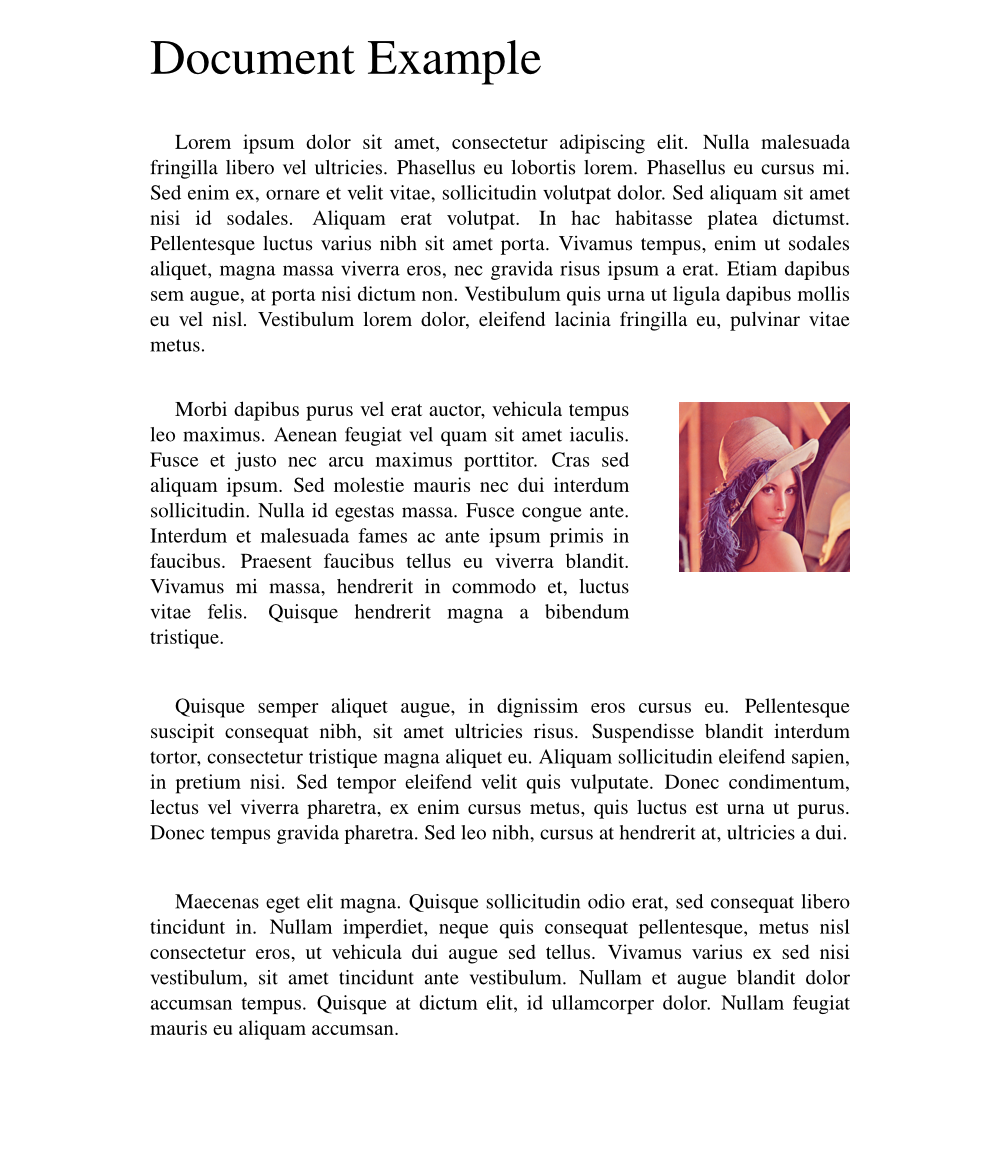
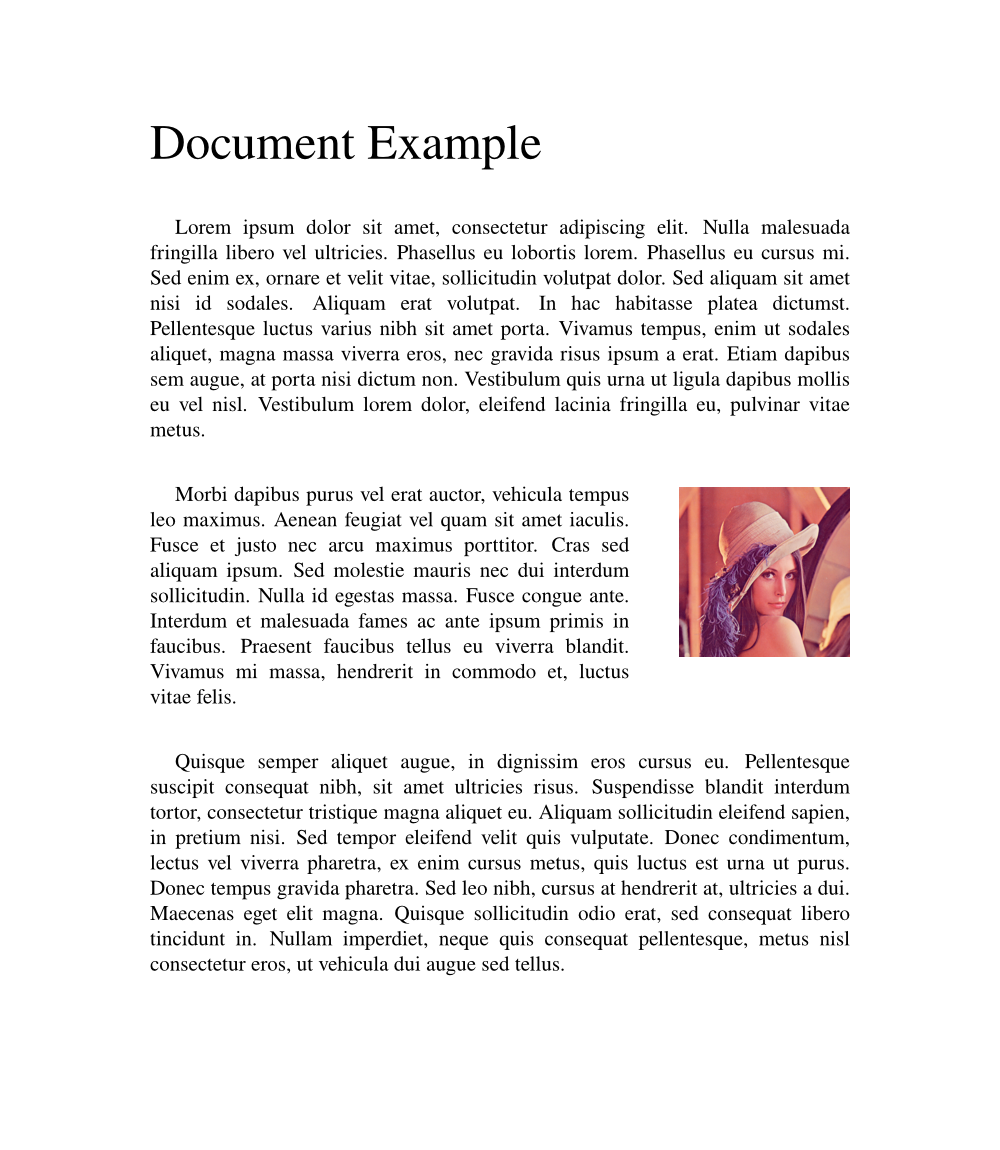
Update readme and document example

Changed region(s): [[0.155, 0.0913, 0.868, 0.913], [0.155, 0.0304, 0.527, 0.0913]]

diff --git a/examples/document/main.go b/examples/document/main.go
@@ -34,12 +34,12 @@ func main() {
 
 var lorem = []string{
 	`Lorem ipsum dolor sit amet, consectetur adipiscing elit. Nulla malesuada fringilla libero vel ultricies. Phasellus eu lobortis lorem. Phasellus eu cursus mi. Sed enim ex, ornare et velit vitae, sollicitudin volutpat dolor. Sed aliquam sit amet nisi id sodales. Aliquam erat volutpat. In hac habitasse platea dictumst. Pellentesque luctus varius nibh sit amet porta. Vivamus tempus, enim ut sodales aliquet, magna massa viverra eros, nec gravida risus ipsum a erat. Etiam dapibus sem augue, at porta nisi dictum non. Vestibulum quis urna ut ligula dapibus mollis eu vel nisl. Vestibulum lorem dolor, eleifend lacinia fringilla eu, pulvinar vitae metus.`,
-	`Morbi dapibus purus vel erat auctor, vehicula tempus leo maximus. Aenean feugiat vel quam sit amet iaculis. Fusce et justo nec arcu maximus porttitor. Cras sed aliquam ipsum. Sed molestie mauris nec dui interdum sollicitudin. Nulla id egestas massa. Fusce congue ante. Interdum et malesuada fames ac ante ipsum primis in faucibus. Praesent faucibus tellus eu viverra blandit. Vivamus mi massa, hendrerit in commodo et, luctus vitae felis. Quisque hendrerit magna a bibendum tristique.`,
-	`Quisque semper aliquet augue, in dignissim eros cursus eu. Pellentesque suscipit consequat nibh, sit amet ultricies risus. Suspendisse blandit interdum tortor, consectetur tristique magna aliquet eu. Aliquam sollicitudin eleifend sapien, in pretium nisi. Sed tempor eleifend velit quis vulputate. Donec condimentum, lectus vel viverra pharetra, ex enim cursus metus, quis luctus est urna ut purus. Donec tempus gravida pharetra. Sed leo nibh, cursus at hendrerit at, ultricies a dui.`,
-	`Maecenas eget elit magna. Quisque sollicitudin odio erat, sed consequat libero tincidunt in. Nullam imperdiet, neque quis consequat pellentesque, metus nisl consectetur eros, ut vehicula dui augue sed tellus. Vivamus varius ex sed nisi vestibulum, sit amet tincidunt ante vestibulum. Nullam et augue blandit dolor accumsan tempus. Quisque at dictum elit, id ullamcorper dolor. Nullam feugiat mauris eu aliquam accumsan.`,
+	`Morbi dapibus purus vel erat auctor, vehicula tempus leo maximus. Aenean feugiat vel quam sit amet iaculis. Fusce et justo nec arcu maximus porttitor. Cras sed aliquam ipsum. Sed molestie mauris nec dui interdum sollicitudin. Nulla id egestas massa. Fusce congue ante. Interdum et malesuada fames ac ante ipsum primis in faucibus. Praesent faucibus tellus eu viverra blandit. Vivamus mi massa, hendrerit in commodo et, luctus vitae felis.`,
+	`Quisque semper aliquet augue, in dignissim eros cursus eu. Pellentesque suscipit consequat nibh, sit amet ultricies risus. Suspendisse blandit interdum tortor, consectetur tristique magna aliquet eu. Aliquam sollicitudin eleifend sapien, in pretium nisi. Sed tempor eleifend velit quis vulputate. Donec condimentum, lectus vel viverra pharetra, ex enim cursus metus, quis luctus est urna ut purus. Donec tempus gravida pharetra. Sed leo nibh, cursus at hendrerit at, ultricies a dui. Maecenas eget elit magna. Quisque sollicitudin odio erat, sed consequat libero tincidunt in. Nullam imperdiet, neque quis consequat pellentesque, metus nisl consectetur eros, ut vehicula dui augue sed tellus.`,
+	//` Vivamus varius ex sed nisi vestibulum, sit amet tincidunt ante vestibulum. Nullam et augue blandit dolor accumsan tempus. Quisque at dictum elit, id ullamcorper dolor. Nullam feugiat mauris eu aliquam accumsan.`,
 }
 
-var y = 222.0
+var y = 205.0
 
 func drawText(c *canvas.Canvas, x float64, text *canvas.Text) {
 	h := text.Bounds().H
@@ -71,5 +71,5 @@ func draw(c *canvas.Canvas) {
 
 	drawText(c, 30.0, canvas.NewTextBox(textFace, lorem[1], 140.0-imgWidth-10.0, 0.0, canvas.Justify, canvas.Top, 5.0, 0.0))
 	drawText(c, 30.0, canvas.NewTextBox(textFace, lorem[2], 140.0, 0.0, canvas.Justify, canvas.Top, 5.0, 0.0))
-	drawText(c, 30.0, canvas.NewTextBox(textFace, lorem[3], 140.0, 0.0, canvas.Justify, canvas.Top, 5.0, 0.0))
+	//drawText(c, 30.0, canvas.NewTextBox(textFace, lorem[3], 140.0, 0.0, canvas.Justify, canvas.Top, 5.0, 0.0))
 }

diff --git a/README.md b/README.md
@@ -77,8 +77,8 @@ Fonts
 
 * **Compressing fonts and embedding only used characters**
 * **Use ligature and OS/2 tables**
-* Support EPS and Type1 font format?
-* Font embedding for EPSs
+* Support EOT font format
+* Font embedding for EPS
 * Support font hinting (for the rasterizer)?
 
 Paths
@@ -92,8 +92,8 @@ Paths
 Far future
 
 * Support fill gradients and patterns (hard)
-* Load in PDFs, SVGs and EPSs and turn to paths/texts
-* Load in Markdown/HTML formatting and turn into texts
+* Load in PDF, SVG and EPS and turn to paths/text
+* Load in Markdown/HTML formatting and turn into text
 * Generate TeX-like formulas in pure Go, use OpenType math font such as STIX or TeX Gyre
 
 
